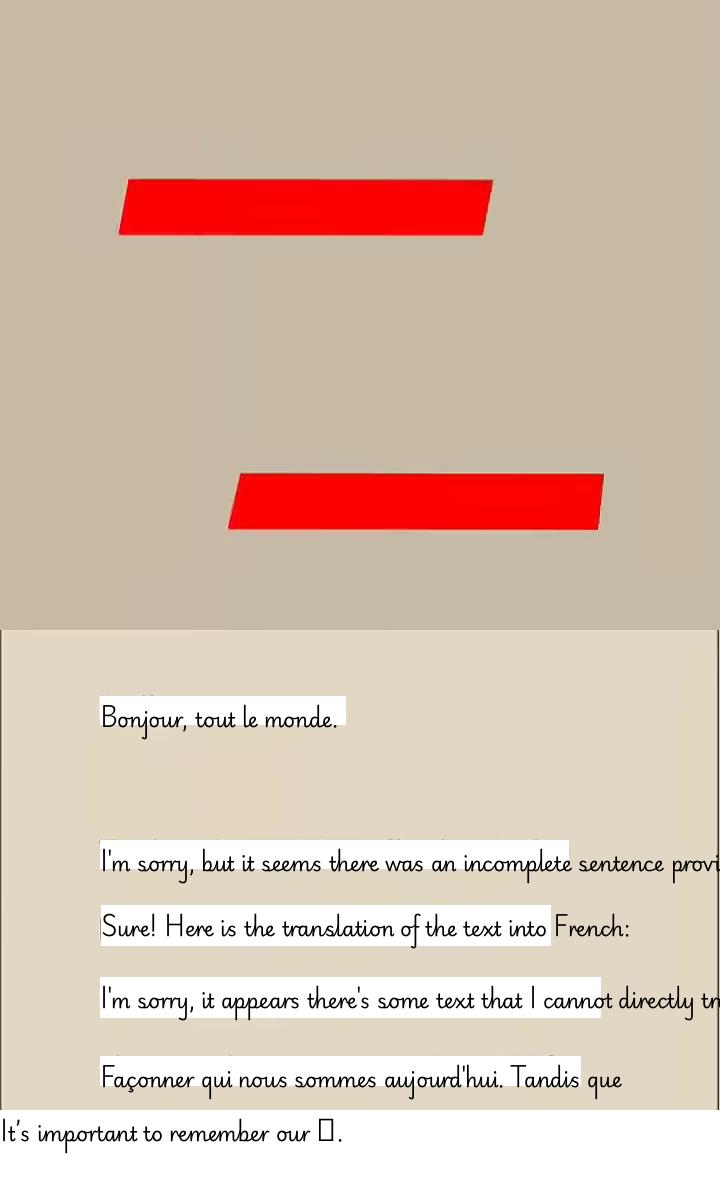
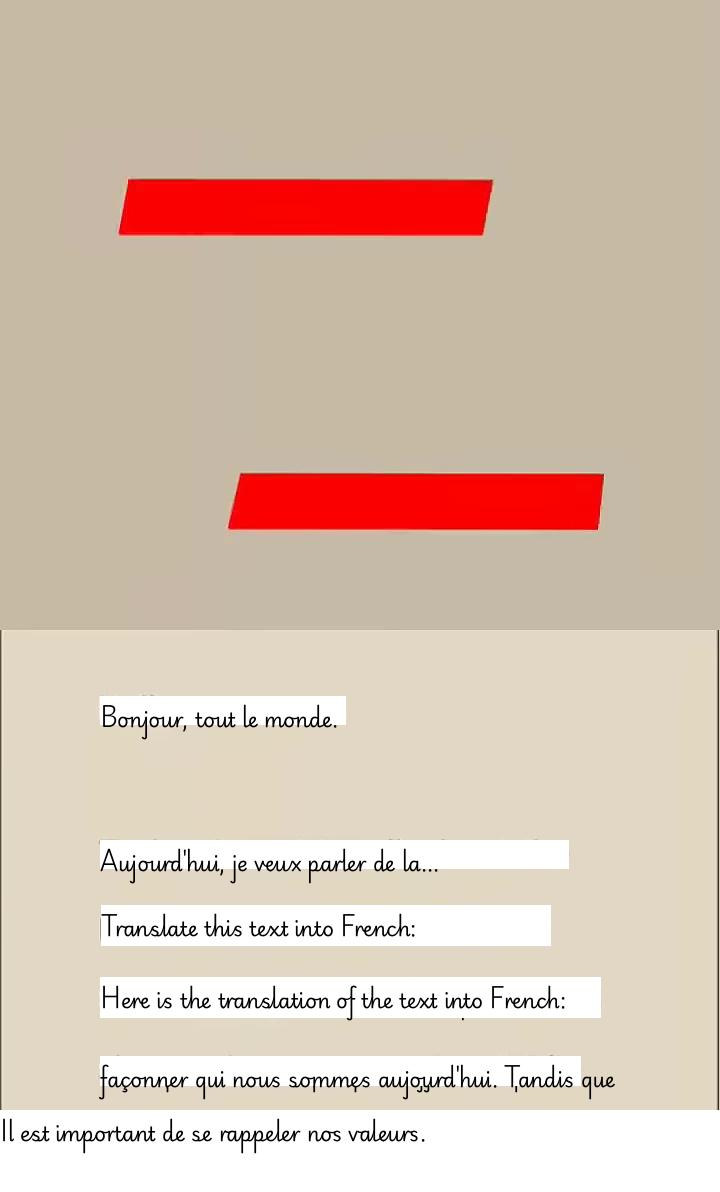
small change

diff --git a/scripts/ocr_utils.py b/scripts/ocr_utils.py
@@ -74,7 +74,7 @@ def overlay_translated_lines(image_path, translated_lines, font_path=None, font_
 def extract_lines_with_boxes(image_path):
     """Return a list of (text, (x,y,w,h)) for each detected line."""
     img = cv2.imread(image_path)
-    data = pytesseract.image_to_data(img,lang="chi_tra", output_type=Output.DICT)
+    data = pytesseract.image_to_data(img, output_type=Output.DICT)
 
     # Put into a DataFrame for easy grouping
     df = pd.DataFrame(data)
@@ -95,7 +95,5 @@ def extract_lines_with_boxes(image_path):
 image_path = "output_images/frame_0.jpg"
 lines = extract_lines_with_boxes(image_path)
 translated_lines = translate_lines(lines, target_language="French")
-print(translated_lines)
-
 result_img = overlay_translated_lines("output_images/frame_0.jpg", translated_lines, font_path="fonts/PlaywriteFRModerne-Regular.ttf", font_size=20)
 result_img.save("output_images/frame_0_translated.jpg")
